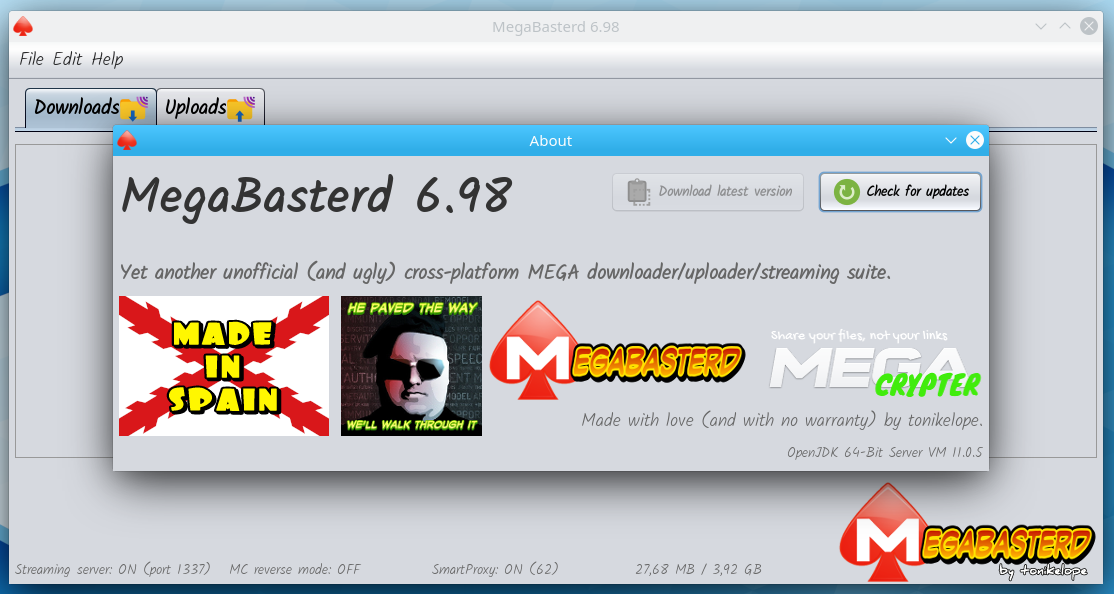
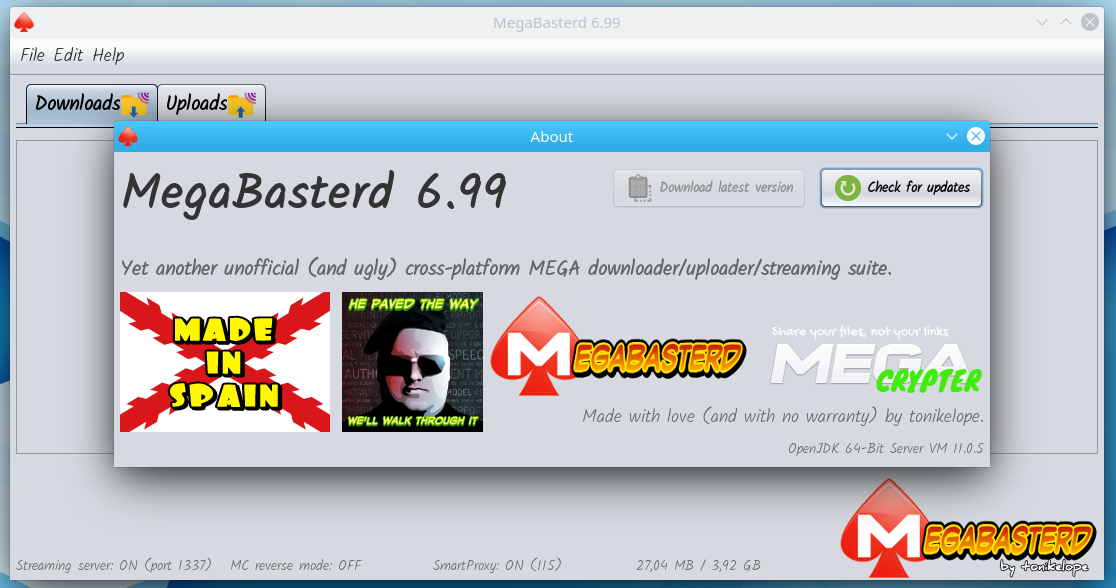
6.99
- File splitter size textfield format fix

(cherry picked from commit 06dfd1183bd0e59ad4fe2b23c4576df851c77f20)
(cherry picked from commit cfaff79cea03c9e91f453e38389f9e33470f7eaf)

diff --git a/src/main/java/com/tonikelope/megabasterd/FileSplitterDialog.java b/src/main/java/com/tonikelope/megabasterd/FileSplitterDialog.java
@@ -34,6 +34,7 @@ import java.nio.file.Path;
 import java.nio.file.Paths;
 import java.util.logging.Level;
 import java.util.logging.Logger;
+import javax.swing.BorderFactory;
 import javax.swing.JFileChooser;
 import javax.swing.JOptionPane;
 import static javax.swing.WindowConstants.DISPOSE_ON_CLOSE;
@@ -68,6 +69,19 @@ public class FileSplitterDialog extends javax.swing.JDialog {
         jProgressBar2.setStringPainted(true);
         jProgressBar2.setValue(0);
         jProgressBar2.setVisible(false);
+
+        split_size_text.addKeyListener(new java.awt.event.KeyAdapter() {
+
+            public void keyReleased(java.awt.event.KeyEvent evt) {
+                try {
+                    Integer.parseInt(split_size_text.getText());
+                } catch (Exception e) {
+                    split_size_text.setText(split_size_text.getText().substring(0, Math.max(0, split_size_text.getText().length() - 1)));
+                }
+            }
+        });
+
+        split_size_text.setBorder(BorderFactory.createEmptyBorder(5, 5, 5, 5));
 
         pack();
     }

diff --git a/src/main/java/com/tonikelope/megabasterd/MainPanel.java b/src/main/java/com/tonikelope/megabasterd/MainPanel.java
@@ -54,7 +54,7 @@ import javax.swing.UIManager;
  */
 public final class MainPanel {
 
-    public static final String VERSION = "6.98";
+    public static final String VERSION = "6.99";
     public static final int THROTTLE_SLICE_SIZE = 16 * 1024;
     public static final int DEFAULT_BYTE_BUFFER_SIZE = 16 * 1024;
     public static final int STREAMER_PORT = 1337;
